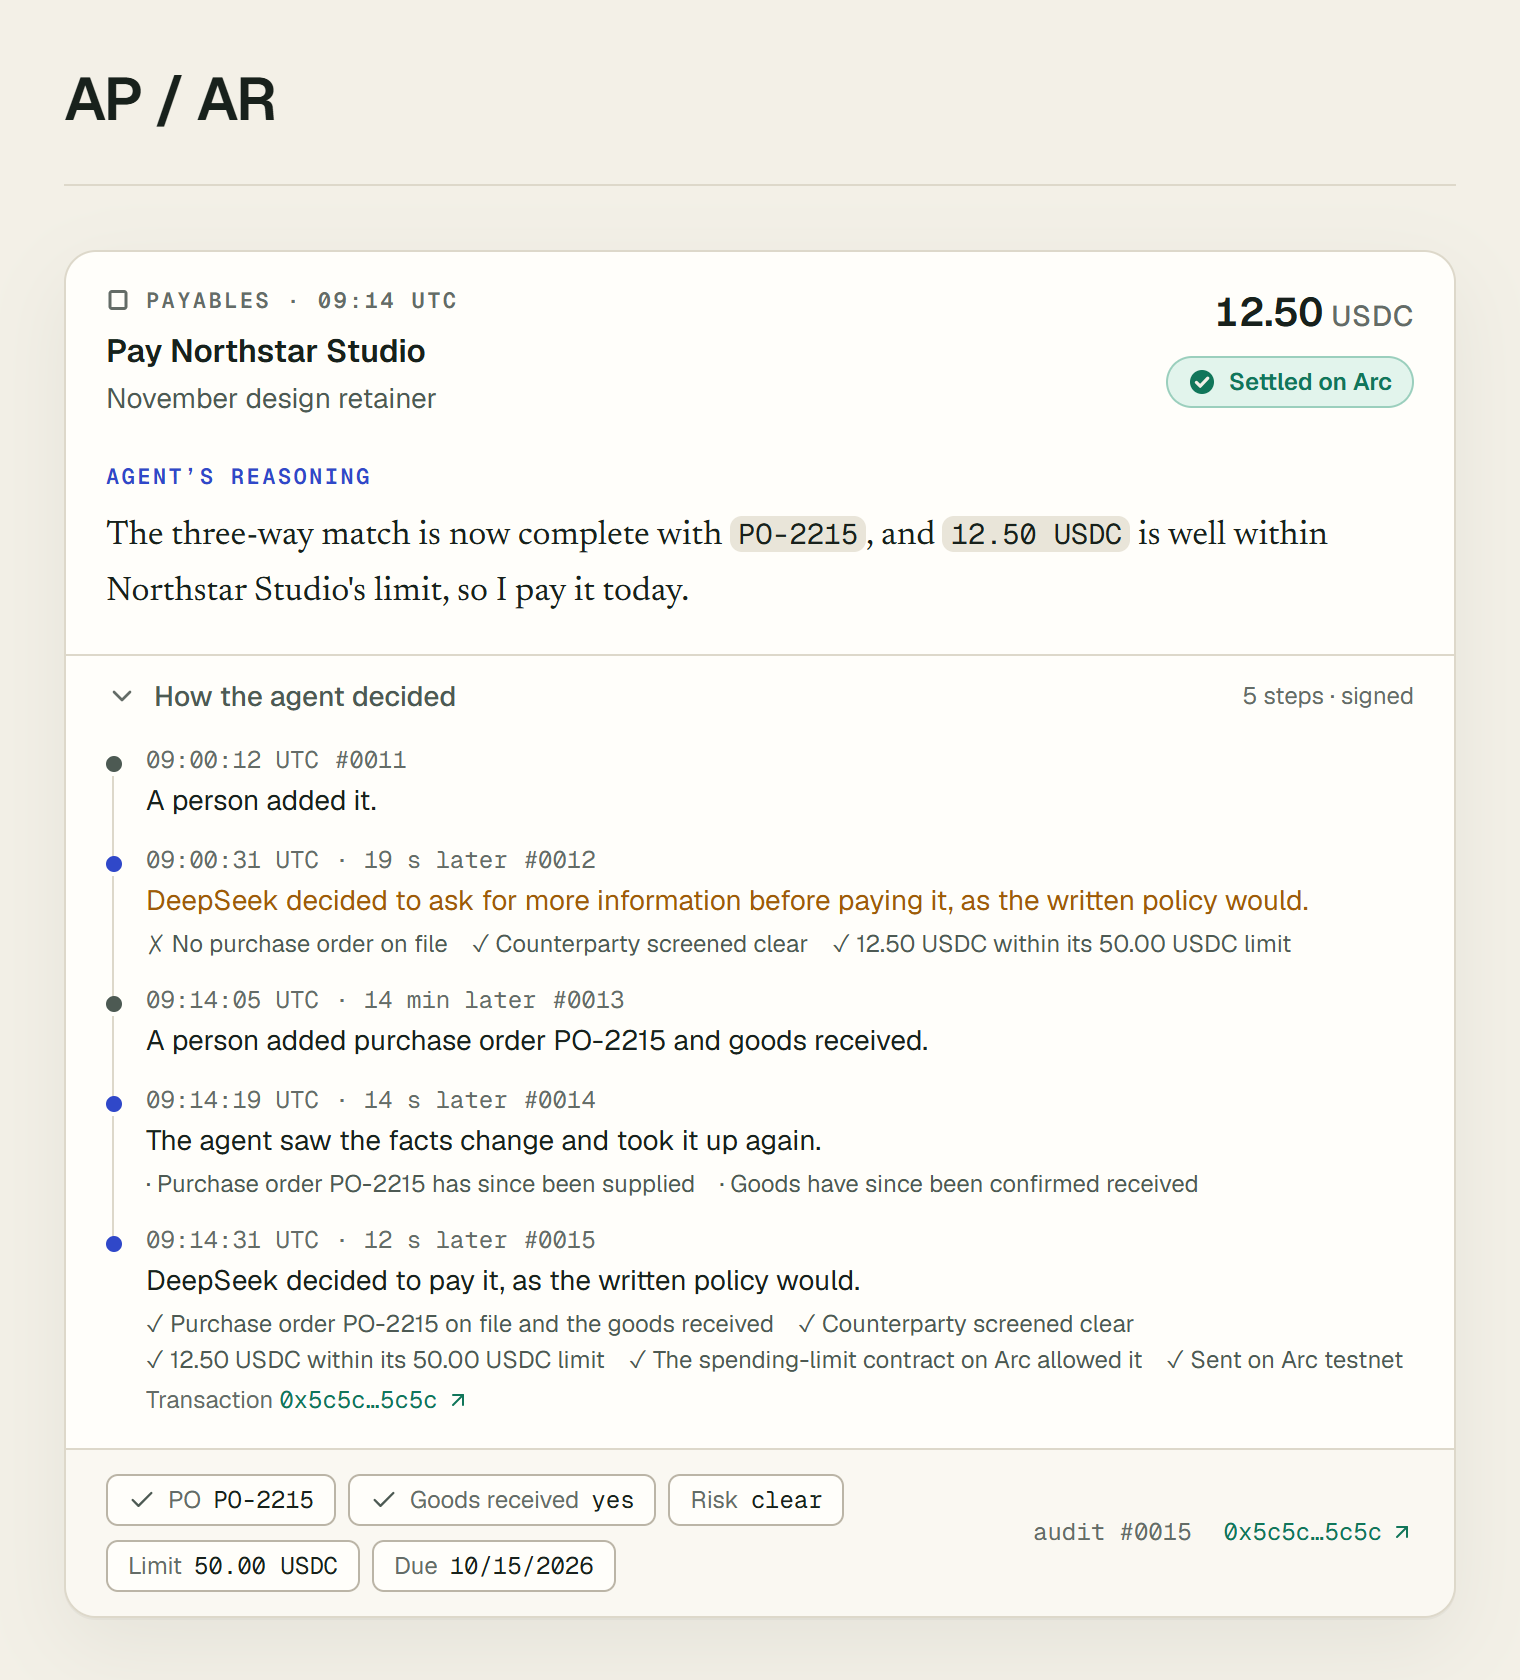
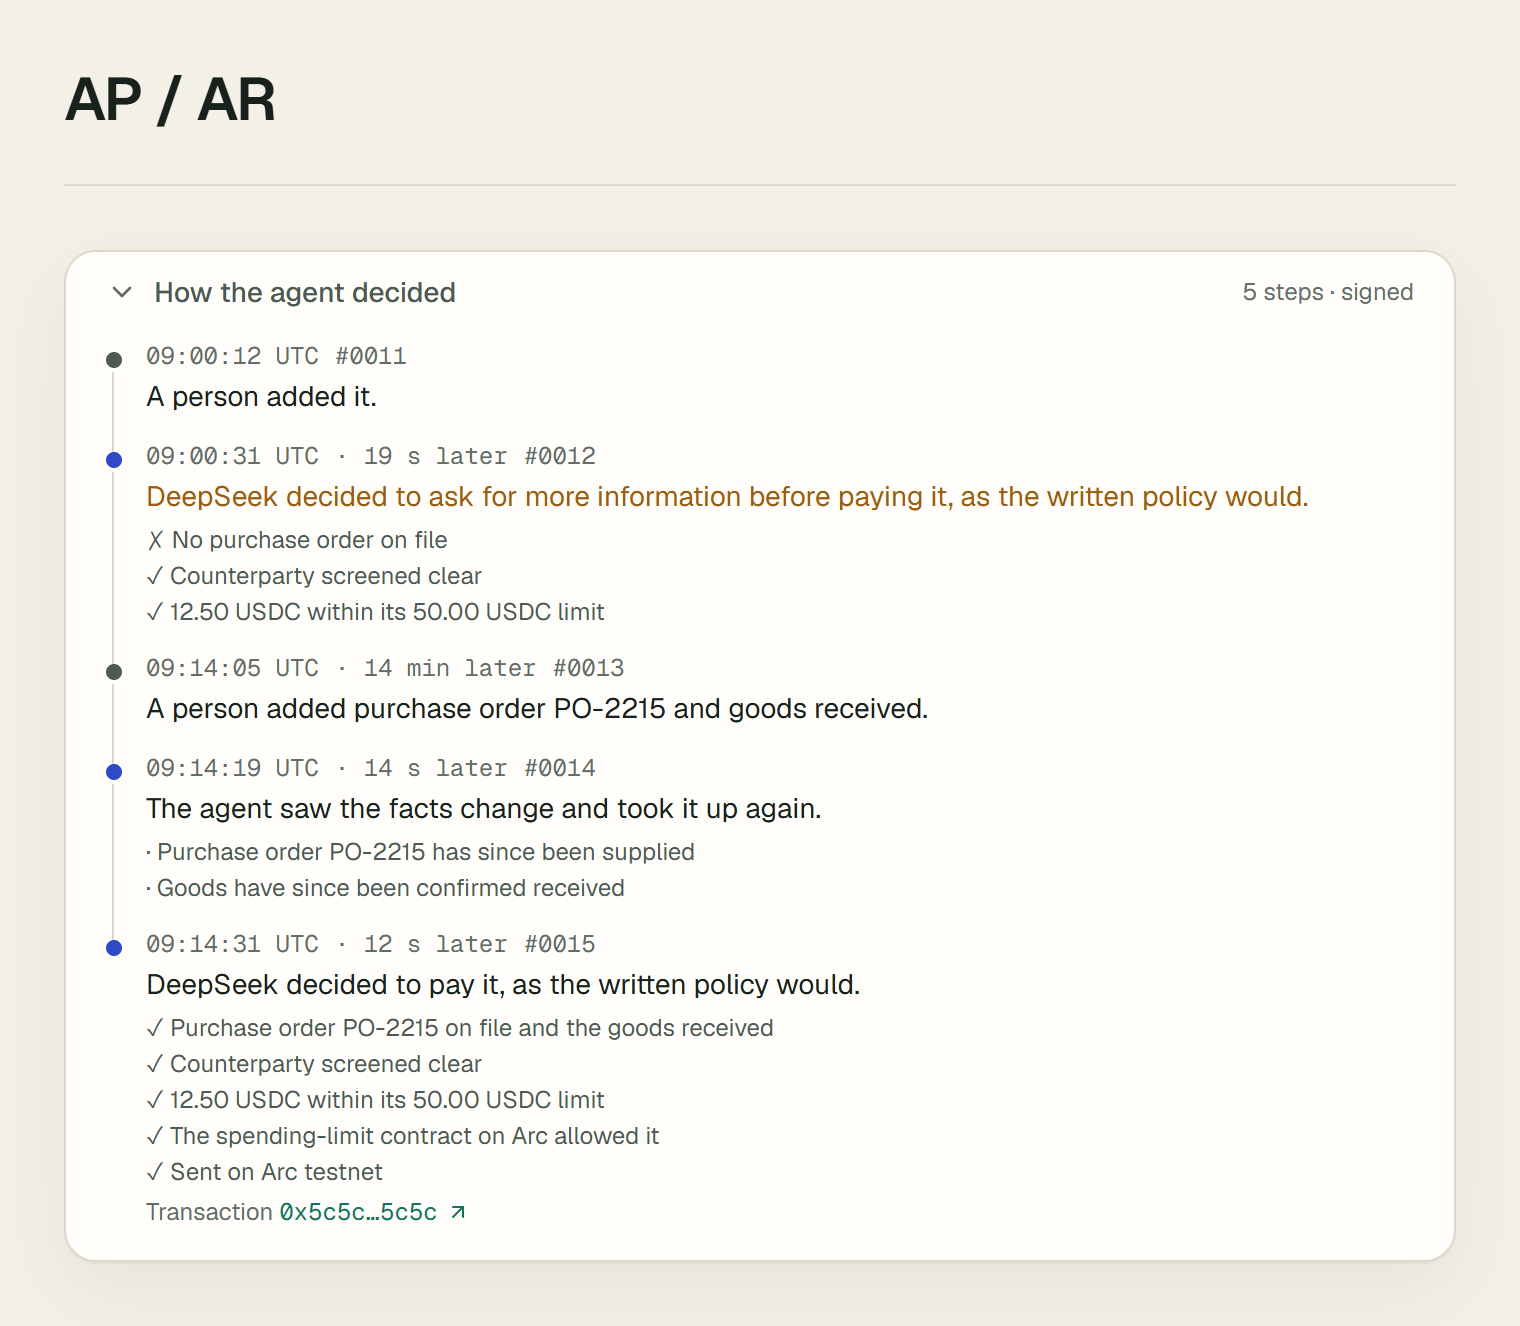
Put each of the trail's checks on its own line
A decision's checks ran together in one wrapped row, which the partner
found hard to read. Each is a line of its own again. The guide's trail
screenshot now shows the trail alone, opened, which keeps it small.

diff --git a/src/components/vx/DecisionTrail.tsx b/src/components/vx/DecisionTrail.tsx
@@ -23,10 +23,21 @@ export function trailAnchor(decisionId: string): string {
  * with its time to the second and how long after the step before it, what was checked, the transaction it sent and
  * the audit log entry it is. Folded until opened; a link to `#trail-<id>` opens it.
  */
-export function DecisionTrail({ id, steps, orgSlug }: { id: string; steps: TrailStep[]; orgSlug: string }) {
+export function DecisionTrail({
+  id,
+  steps,
+  orgSlug,
+  defaultOpen = false,
+}: {
+  id: string;
+  steps: TrailStep[];
+  orgSlug: string;
+  /** Open from the start: for a guide's screenshot. */
+  defaultOpen?: boolean;
+}) {
   if (steps.length === 0) return null;
   return (
-    <details id={trailAnchor(id)} className="group/trail scroll-mt-24 border-t border-line">
+    <details id={trailAnchor(id)} open={defaultOpen} className="group/trail scroll-mt-24 border-t border-line first:border-t-0">
       <summary className="flex cursor-pointer list-none items-center justify-between gap-3 px-4 py-2.5 text-sm font-medium text-ink-2 transition-colors duration-150 ease-standard hover:text-ink sm:px-5 [&::-webkit-details-marker]:hidden">
         <span className="inline-flex items-center gap-2">
           <ChevronRight aria-hidden className="size-4 text-ink-3 transition-transform duration-200 ease-standard group-open/trail:rotate-90" />
@@ -53,7 +64,7 @@ export function DecisionTrail({ id, steps, orgSlug }: { id: string; steps: Trail
               </p>
               <p className={cn("mt-0.5 text-sm", step.tone === "stopped" ? "text-held" : "text-ink")}>{step.text}</p>
               {step.notes.length > 0 && (
-                <ul className="mt-1 flex flex-wrap gap-x-3 gap-y-0.5 text-xs text-ink-2">
+                <ul className="mt-1 space-y-0.5 text-xs text-ink-2">
                   {step.notes.map((note) => (
                     <li key={note}>{note}</li>
                   ))}

diff --git a/src/app/docs-shots/shots.tsx b/src/app/docs-shots/shots.tsx
@@ -8,6 +8,7 @@ import GoLivePanel from "@/components/GoLivePanel";
 import { HeldMilestoneActions } from "@/components/HeldMilestoneActions";
 import VerifyLedgerBadge from "@/components/VerifyLedgerBadge";
 import { DecisionCard } from "@/components/vx/DecisionCard";
+import { DecisionTrail } from "@/components/vx/DecisionTrail";
 import { WaitingPayableAction } from "@/components/WaitingPayableAction";
 import CounterpartyAddress from "@/components/intake/CounterpartyAddressEdit";
 import CounterpartyIntake from "@/components/intake/CounterpartyIntake";
@@ -595,8 +596,13 @@ export const DOCS_SHOTS = {
     guide: "first-payment",
     page: "invoices",
     render: function TrailShot() {
-      // The card alone, as an opened row on AP / AR shows it; the script opens How the agent decided.
-      return <DecisionCard decision={invoiceDecision(TRAIL_INVOICE, COUNTERPARTY, TRAIL_ENTRIES)} orgSlug={SLUG} />;
+      // How the agent decided, opened, as a payable's card shows it: the trail alone, each check on its own line.
+      const decision = invoiceDecision(TRAIL_INVOICE, COUNTERPARTY, TRAIL_ENTRIES);
+      return (
+        <Card className="overflow-hidden">
+          <DecisionTrail id={decision.id} steps={decision.trail ?? []} orgSlug={SLUG} defaultOpen />
+        </Card>
+      );
     },
   },
   "first-payment-needs-you": {

diff --git a/tests/decision-trail.test.tsx b/tests/decision-trail.test.tsx
@@ -148,6 +148,9 @@ describe("a payable's card", () => {
     expect(markup).toContain("10 s later");
     expect(markup).toContain("22 s later");
     expect(markup).toContain('href="/o/acme/audit#seq-972"');
+    // Each check on its own line, read down a list (the partner's ask): never run together in one wrapped row.
+    expect(markup).toContain('<ul class="mt-1 space-y-0.5 text-xs text-ink-2"><li>✓ Purchase order PO-131 on file and the goods received</li><li>✓ Counterparty screened clear</li>');
+    expect(markup).not.toMatch(/<ul class="[^"]*flex-wrap[^"]*"><li>✓/);
   });
 
   it("says a payable not yet decided is being decided while a cycle runs", () => {
